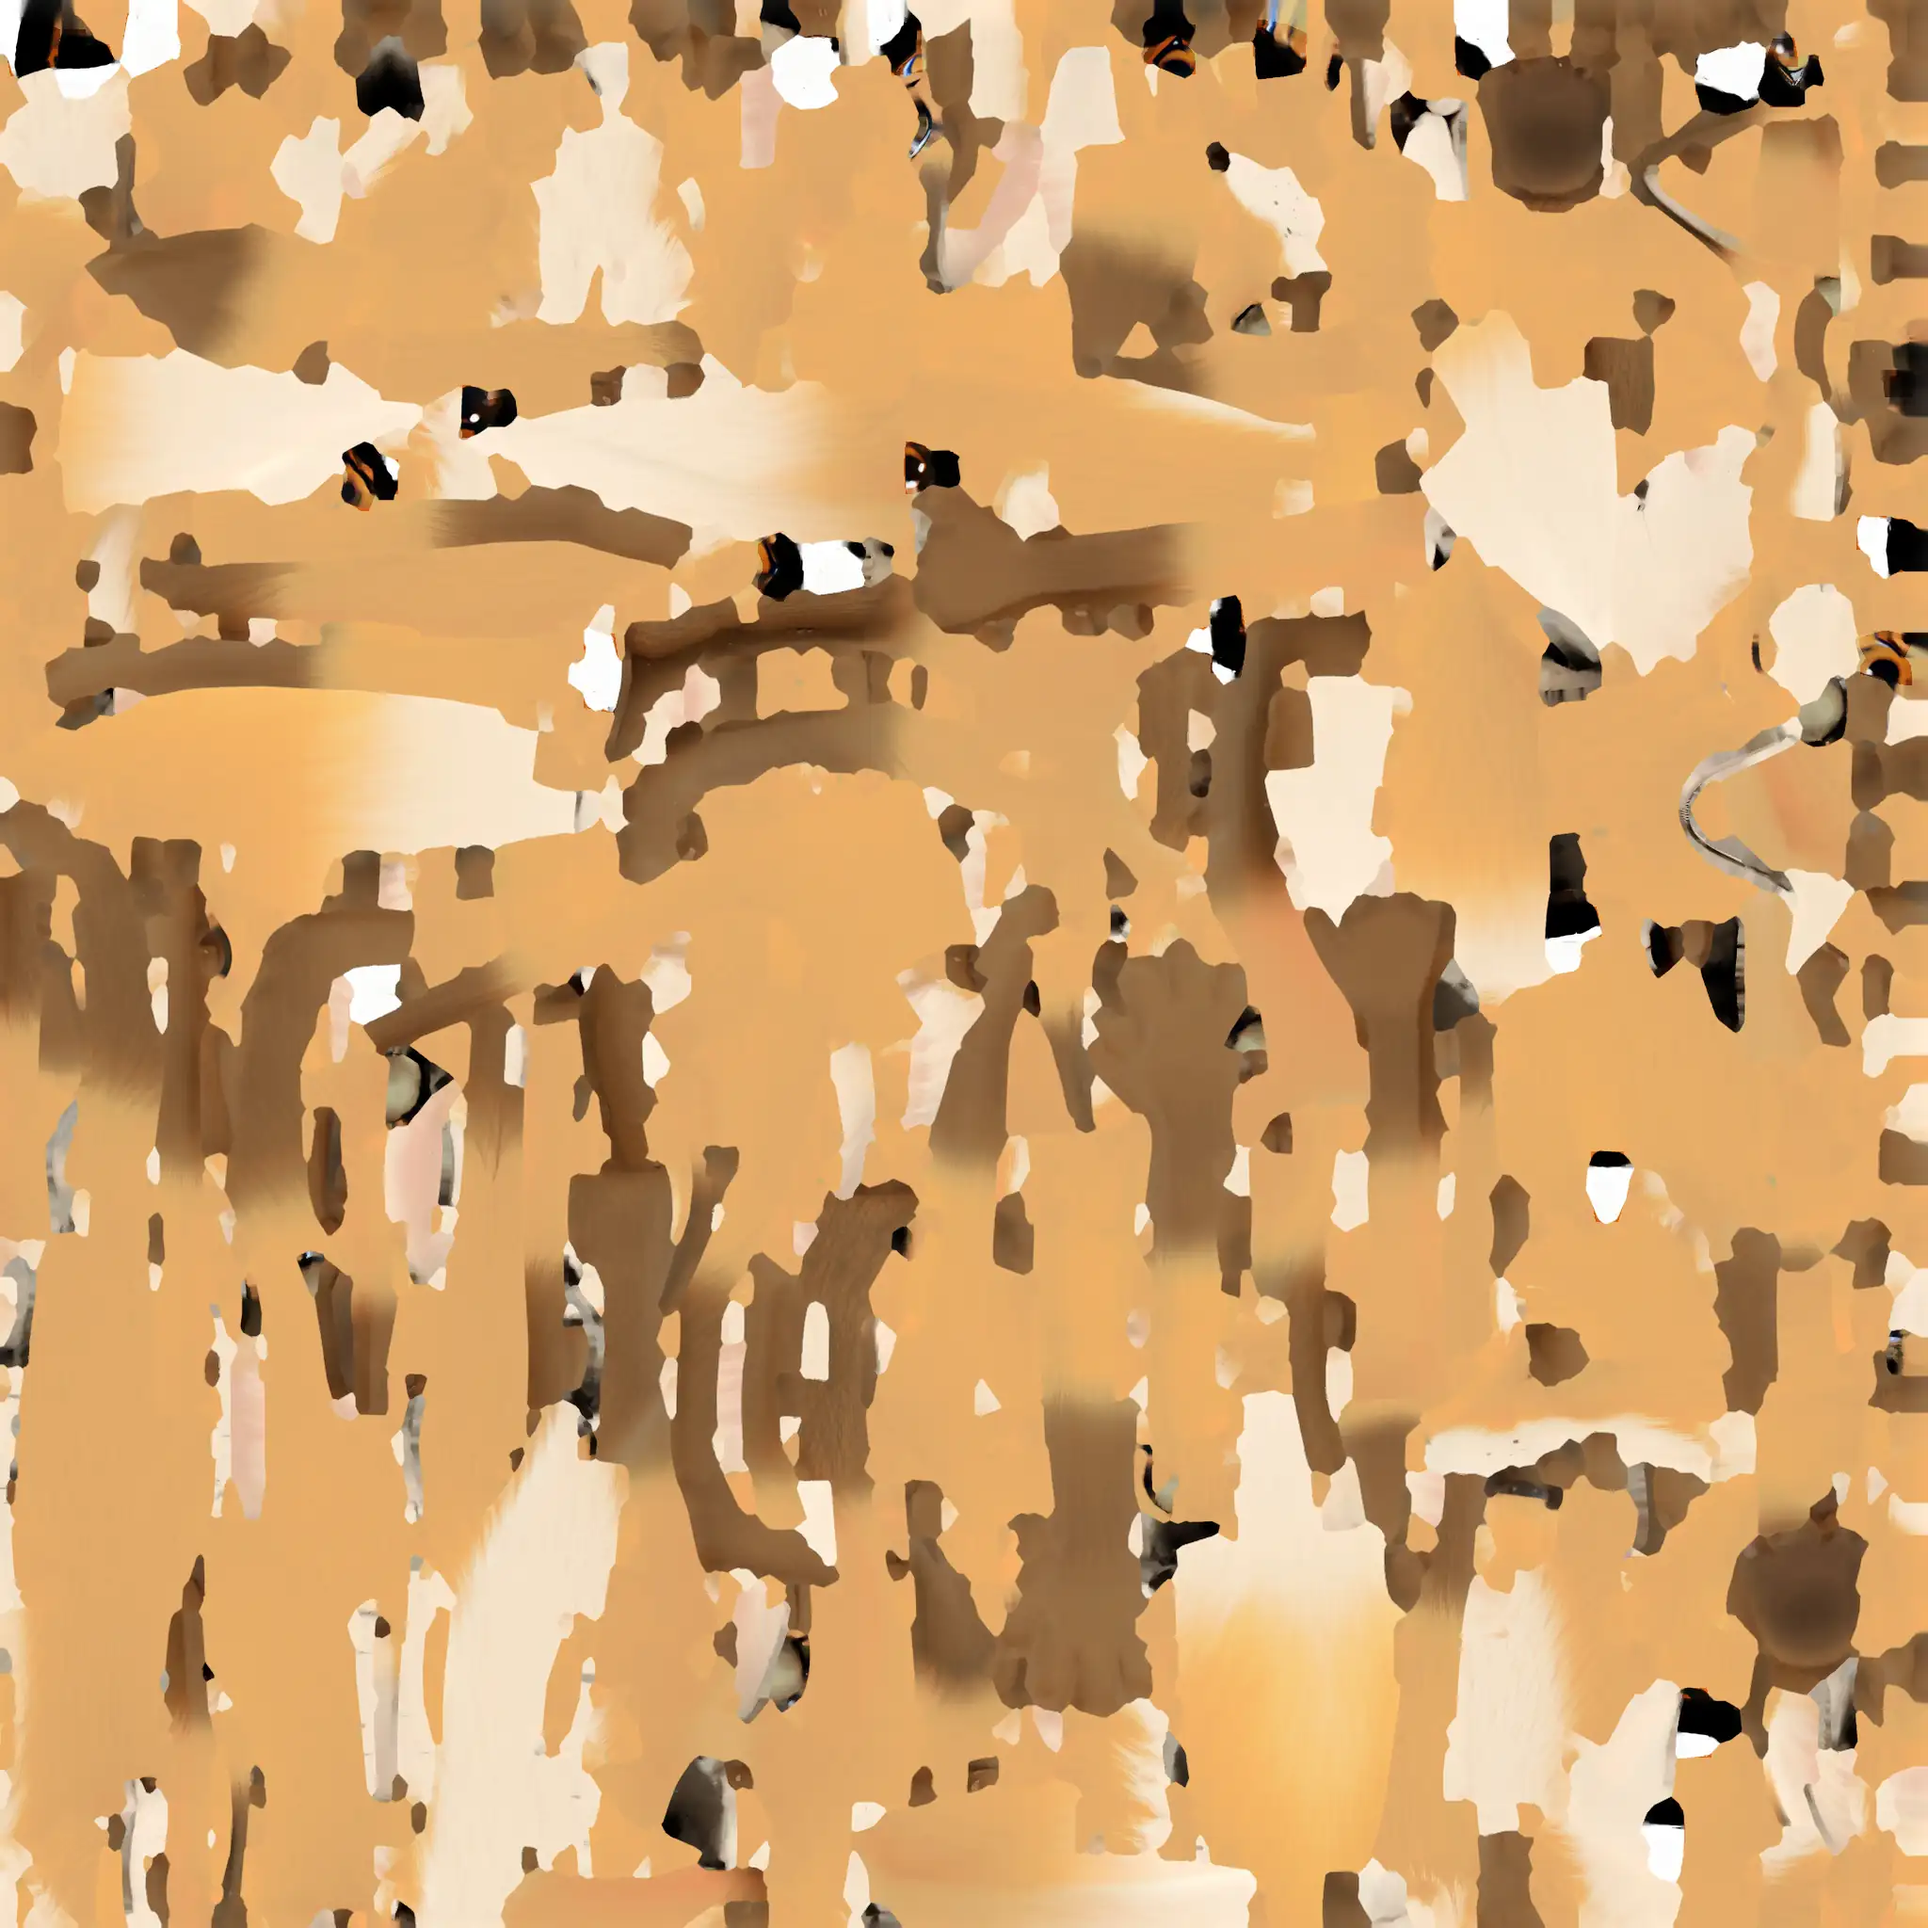
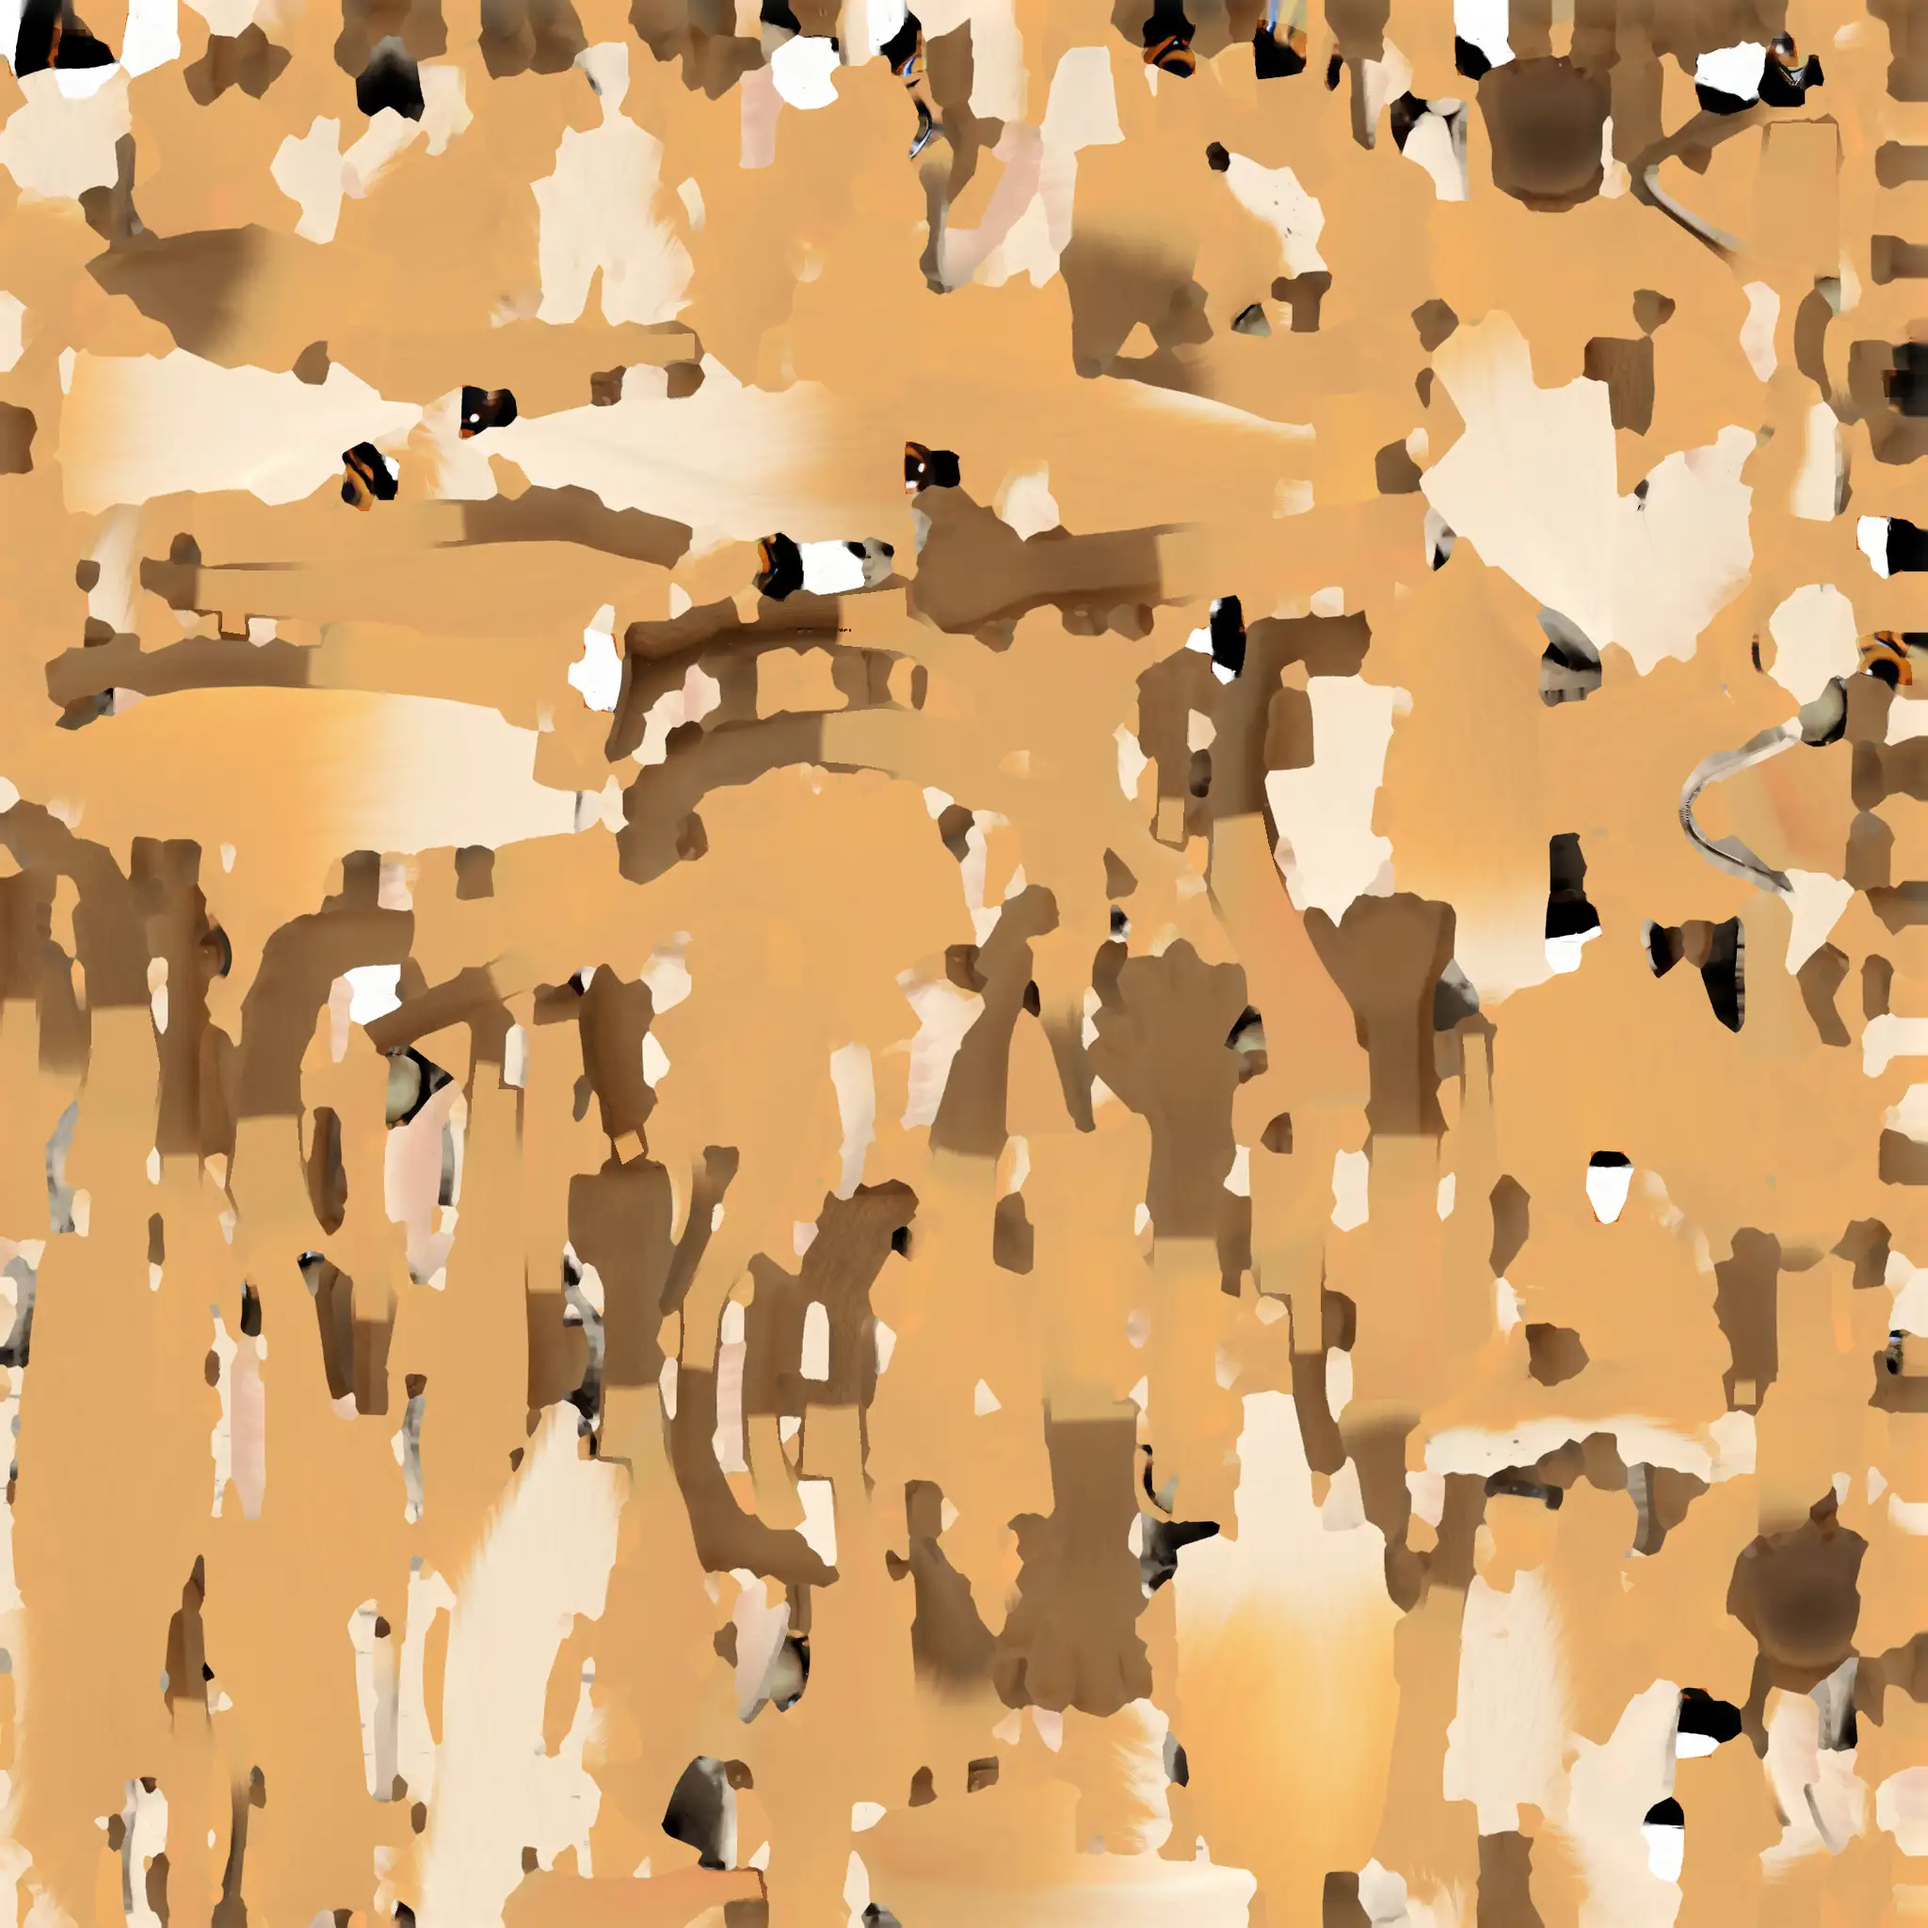
fix(tools): give the fox maps a sharp sock edge on the legs and forearms
The source map fades the dark socks up over most of each leg and each
forearm, and in the hall light the legs read dirty. tools/fox-maps.py
now makes a place map of the seated bind from the triangles of the rig
file, and moves each texel of the limbs that lies on the line from the
orange fur to the socks in Oklab: above the edge to the fur, below it
to the sock, with a soft step of 0.04 of the bone. The edges
(SOCK_EDGES) lie at 0.45 of the shin from the knee and at 0.4 of the
forearm from the elbow; the fox of main has its forearm edge at the
same place. Each texel keeps its small steps along the line (up to
SOCK_KEEP) and off the line, so the strands of the map stay. Cream,
white, and black texels keep their colors. Both maps take the edges.

diff --git a/tools/fox-maps.py b/tools/fox-maps.py
@@ -83,6 +83,26 @@ BROW_SPOT = ((-0.205, 0.872, 0.836), 0.5, 0.7)
 BROW_GROW = 2
 #: The Oklab distance from the orange fur above which a texel of a brow triangle is a spot texel.
 BROW_FAR = 0.04
+#: The chains of joints of the sharp sock edges, each with the place of its edge along its middle
+#: bone, from the joint at the top of that bone (0) to the joint at its end (1). The source map
+#: fades the dark socks up over most of each leg and forearm, so that the legs read dirty in the
+#: hall light. Above the edge each texel takes the orange fur, below it the dark sock, and the
+#: bone above the middle bone takes the fur, the bone below it the sock.
+SOCK_EDGES = (
+    (('thigh', 'shin', 'foot', 'toes'), 0.45),
+    (('upper_arm', 'forearm', 'hand', 'fingers'), 0.4),
+)
+#: The distance of a texel from its bone in the seated bind, in units of the rig file, within which
+#: the texel belongs to the limb.
+SOCK_RADIUS = 0.075
+#: The width of the soft step of the sock edge, as a share of the middle bone.
+SOCK_BAND = 0.04
+#: The largest Oklab distance of a texel from the line between the orange fur and the socks for
+#: a texel that the sock edge moves: cream, white, and black texels keep their colors.
+SOCK_LINE = 0.05
+#: The largest step along the line from the orange fur toward the socks (or back) that a texel keeps
+#: on its side of the sock edge, as a share of the line.
+SOCK_KEEP = 0.12
 
 
 def linear(srgb):
@@ -118,7 +138,7 @@ def linear_of_oklab(lab):
 
 def read_rig(path):
     """Gives the triangles, the positions, the texture points, and the eyes (`ownEyes`) of the fur
-    primitive of the rig file, in the seated bind of the file."""
+    primitive of the rig file, in the seated bind of the file, and the place of each joint."""
     data = open(path, 'rb').read()
     length = struct.unpack('<I', data[12:16])[0]
     gltf = json.loads(data[20:20 + length])
@@ -141,7 +161,30 @@ def read_rig(path):
     eyes = gltf['asset']['extras'].get('ownEyes')
     if not eyes:
         sys.exit(f'{path} has no eyes of the mesh.')
-    return triangles.reshape(-1, 3), positions, points, eyes
+    return triangles.reshape(-1, 3), positions, points, eyes, joint_places(gltf)
+
+
+def joint_places(gltf):
+    """Gives the place of each node of the file by its name: the translation of its world matrix."""
+    nodes = gltf['nodes']
+    parent = {c: i for i, node in enumerate(nodes) for c in node.get('children', [])}
+    worlds = {}
+
+    def world(i):
+        if i not in worlds:
+            node = nodes[i]
+            x, y, z, w = node.get('rotation', [0, 0, 0, 1])
+            m = np.eye(4)
+            m[:3, :3] = np.array([
+                [1 - 2 * (y * y + z * z), 2 * (x * y - z * w), 2 * (x * z + y * w)],
+                [2 * (x * y + z * w), 1 - 2 * (x * x + z * z), 2 * (y * z - x * w)],
+                [2 * (x * z - y * w), 2 * (y * z + x * w), 1 - 2 * (x * x + y * y)],
+            ]) * np.array(node.get('scale', [1, 1, 1]))
+            m[:3, 3] = node.get('translation', [0, 0, 0])
+            worlds[i] = world(parent[i]) @ m if i in parent else m
+        return worlds[i]
+
+    return {node.get('name'): world(i)[:3, 3] for i, node in enumerate(nodes)}
 
 
 def draw_triangles(triangles, points, faces, size):
@@ -156,7 +199,7 @@ def draw_triangles(triangles, points, faces, size):
 
 def eye_mask(rig, size):
     """Gives the texels of the eyeball triangles of the rig file, grown by EYE_MARGIN texels."""
-    triangles, _, points, eyes = rig
+    triangles, _, points, eyes, _ = rig
     faces = [t for side in ('L', 'R') for t in eyes[side]['faces']]
     mask = draw_triangles(triangles, points, faces, size)
     mask = mask.filter(ImageFilter.MaxFilter(2 * EYE_MARGIN + 1))
@@ -165,7 +208,7 @@ def eye_mask(rig, size):
 
 def eye_middles(rig):
     """Gives the middle of the sphere of each eyeball (a least-squares fit of its corners)."""
-    triangles, positions, _, eyes = rig
+    triangles, positions, _, eyes, _ = rig
     middles = {}
     for side in ('L', 'R'):
         p = positions[triangles[eyes[side]['faces']].ravel()].astype(np.float64)
@@ -177,7 +220,7 @@ def eye_middles(rig):
 def brow_fill(rig, lab):
     """Paints the light brow spots over with the fur around them (see BROW_SPOT). Gives the moved
     Oklab image and the count of the painted texels."""
-    triangles, positions, points, eyes = rig
+    triangles, positions, points, eyes, _ = rig
     middles = eye_middles(rig)
     unit = abs(middles['L'][0])
     face_middles = positions[triangles].mean(axis=1)
@@ -207,6 +250,85 @@ def brow_fill(rig, lab):
         color = np.median(lab[fill], axis=0) if fill.sum() >= 4 else fur
         out[part & spot] = color
     return out, int(spot.sum())
+
+
+def place_map(rig):
+    """Gives the place in the seated bind of each texel of the fur triangles (NaN elsewhere), by
+    the barycentric mix of the corners of its triangle."""
+    triangles, positions, points, _, _ = rig
+    places = np.full((SIZE, SIZE, 3), np.nan)
+    for tri in triangles:
+        uv = points[tri].astype(np.float64) * SIZE - 0.5
+        x0, y0 = np.floor(uv.min(axis=0)).astype(int)
+        x1, y1 = np.ceil(uv.max(axis=0)).astype(int)
+        x0, y0, x1, y1 = max(x0, 0), max(y0, 0), min(x1, SIZE - 1), min(y1, SIZE - 1)
+        if x1 < x0 or y1 < y0:
+            continue
+        ys, xs = np.mgrid[y0:y1 + 1, x0:x1 + 1]
+        (ax, ay), (bx, by), (cx, cy) = uv
+        area = (bx - ax) * (cy - ay) - (cx - ax) * (by - ay)
+        if abs(area) < 1e-12:
+            continue
+        wb = ((xs - ax) * (cy - ay) - (cx - ax) * (ys - ay)) / area
+        wc = ((bx - ax) * (ys - ay) - (xs - ax) * (by - ay)) / area
+        wa = 1 - wb - wc
+        inside = (wa >= -0.02) & (wb >= -0.02) & (wc >= -0.02)
+        corners = positions[tri].astype(np.float64)
+        place = wa[..., None] * corners[0] + wb[..., None] * corners[1] + wc[..., None] * corners[2]
+        places[ys[inside], xs[inside]] = place[inside]
+    return places
+
+
+def segment_param(places, a, b):
+    """Gives the place t of each texel along the segment from a (0) to b (1), and its distance
+    from the segment."""
+    d = b - a
+    t = ((places - a) @ d) / (d @ d)
+    near = a + np.clip(t, 0, 1)[..., None] * d
+    return t, np.linalg.norm(places - near, axis=-1)
+
+
+def sock_edges(rig, lab):
+    """Gives each leg and each forearm a sharp edge between the orange fur and the dark sock (see
+    SOCK_EDGES). Each texel on the line from the orange fur to the socks in Oklab takes the full
+    orange above the edge and the full sock below it, with its own small steps along and off the line."""
+    joints = rig[4]
+    places = place_map(rig)
+    orange = oklab(linear(MAPS['fox-color.webp'][0][0]))
+    sock = oklab(linear(MAPS['fox-color.webp'][1][0]))
+    line = sock - orange
+    share = ((lab - orange) @ line) / (line @ line)
+    off = lab - orange - share[..., None] * line
+    on_line = (np.linalg.norm(off, axis=-1) < SOCK_LINE) & (share > -0.3) & (share < 1.3)
+    target = np.full(share.shape, np.nan)
+    best = np.full(share.shape, np.inf)
+    for side in ('L', 'R'):
+        for chain, edge in SOCK_EDGES:
+            j = [joints[f'{name}_{side}'] for name in chain]
+            for k in range(len(j) - 1):
+                t, distance = segment_param(places, j[k], j[k + 1])
+                # The middle segment holds the edge; the segment above it is fur, below it sock.
+                if k == 0:
+                    want = np.zeros_like(t)
+                elif k == 1:
+                    want = np.clip((t - edge) / SOCK_BAND + 0.5, 0, 1)
+                else:
+                    want = np.ones_like(t)
+                take = (distance < SOCK_RADIUS) & (distance < best) & np.isfinite(distance)
+                target[take] = want[take]
+                best[take] = distance[take]
+    move = on_line & np.isfinite(target)
+    s = share[move]
+    w = target[move]
+    # The fur side keeps the small steps of the fur toward the socks (up to SOCK_KEEP of the
+    # line), and the sock side the small steps toward the fur, so the strands of the map stay.
+    fur_side = SOCK_KEEP * np.tanh(s / SOCK_KEEP)
+    sock_side = 1 - SOCK_KEEP * np.tanh((1 - s) / SOCK_KEEP)
+    new = (1 - w) * np.where(s > 0, fur_side, s) + w * np.where(s < 1, sock_side, s)
+    out = lab.copy()
+    out[move] = orange + new[:, None] * line + off[move]
+    moved = np.abs(new - s) > 0.02
+    return out, int(moved.sum())
 
 
 def parts(mask):
@@ -277,6 +399,8 @@ def main():
     rig = read_rig(RIG)
     lab, painted = brow_fill(rig, oklab(linear(np.asarray(image))))
     print(f'{painted} texels of the brow spots take the fur around them')
+    lab, socks = sock_edges(rig, lab)
+    print(f'{socks} texels of the legs and the forearms take the sharp sock edge')
     eyes, count = eye_mask(rig, SIZE)
     for name, anchors in MAPS.items():
         write_map(name, anchors, image, lab, eyes, count)
